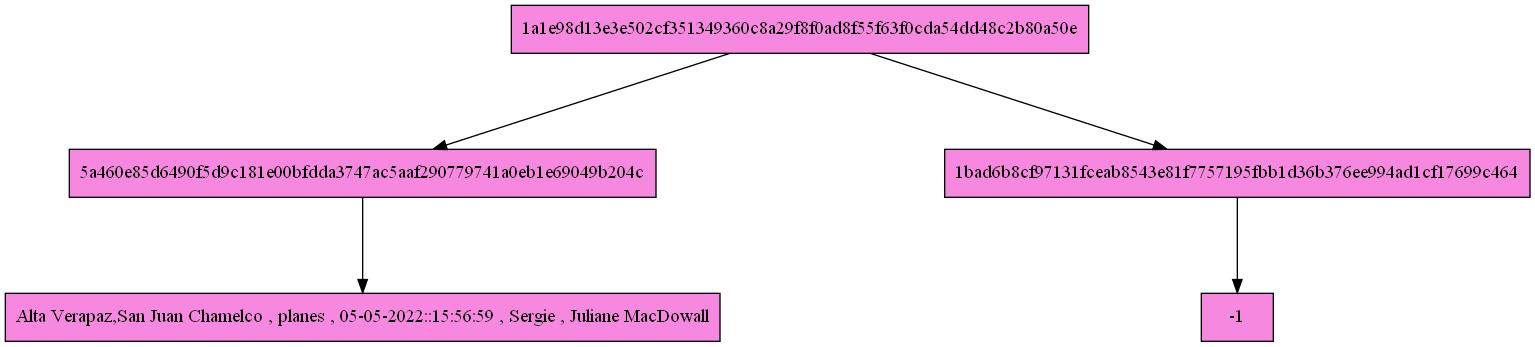
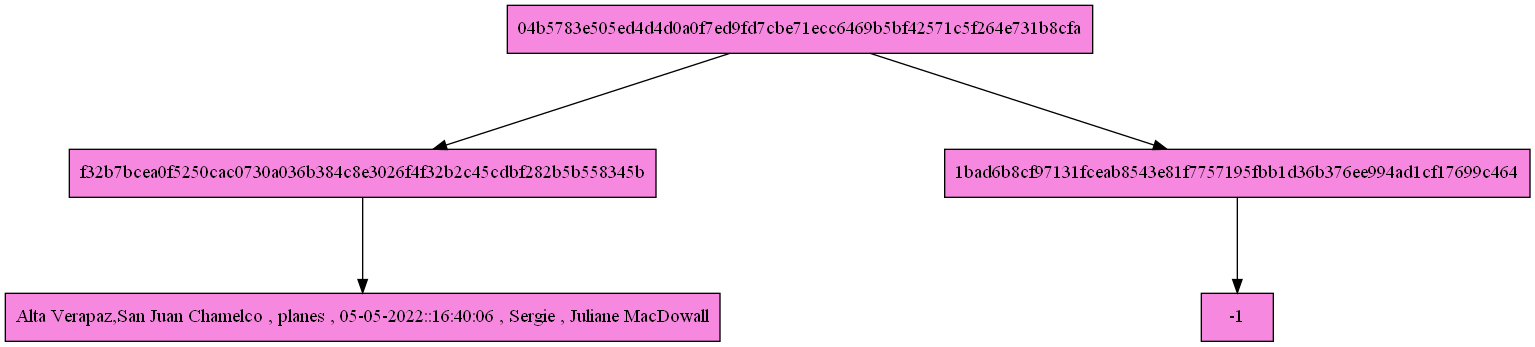
block chan funcionando

Changed region(s): [[0.3062, 0.0288, 0.7349, 0.1441], [0.0306, 0.4611, 0.4287, 0.5187], [0.2756, 0.8934, 0.3368, 0.9222]]

diff --git a/FASE 3/src/windows/Admin_Module.java b/FASE 3/src/windows/Admin_Module.java
@@ -459,11 +459,11 @@ public class Admin_Module extends JFrame {
 		tabbedPane.addTab("Sitema de bloackchain", null, panel_10, null);
 		panel_10.setLayout(null);
 		
-		JLabel lblNewLabel_6 = new JLabel("Modificar tiempo de generacion de bloques color car numero en  milisegundos 1s = 1000ms");
-		lblNewLabel_6.setBounds(21, 11, 448, 14);
+		JLabel lblNewLabel_6 = new JLabel("Modificar tiempo de generacion de bloques color car numero en  segundos");
+		lblNewLabel_6.setBounds(21, 11, 560, 14);
 		panel_10.add(lblNewLabel_6);
 		
-		JLabel lblNewLabel_6_1 = new JLabel("*Por defecto estaa en 3 s");
+		JLabel lblNewLabel_6_1 = new JLabel("*Por defecto estaa en 180 s = 3 min");
 		lblNewLabel_6_1.setBounds(21, 31, 448, 14);
 		panel_10.add(lblNewLabel_6_1);
 		
@@ -499,7 +499,19 @@ public class Admin_Module extends JFrame {
 			
 			btnVerBlockchain.setBounds(1336, 7, 139, 23);
 			panel_10.add(btnVerBlockchain);
+			
+			JButton GenerarBloque = new JButton("Generar Bloque");
+			
+			GenerarBloque.setBounds(1336, 55, 139, 23);
+			panel_10.add(GenerarBloque);
 			///Butons ------------------------------------------------------------------------------------
+			
+			GenerarBloque.addActionListener(new ActionListener() {
+				public void actionPerformed(ActionEvent e) {
+					storage.Generar_Arbol_Merkle();
+				}
+			});
+			
 			btnVerBlockchain.addActionListener(new ActionListener() {
 				public void actionPerformed(ActionEvent e) {
 					storage.blockchain.recorrido_bloques();

diff --git a/FASE 3/src/objects/Bloque.java b/FASE 3/src/objects/Bloque.java
@@ -71,20 +71,31 @@ public class Bloque {
 
 	public void Generar_Hash(Merkle_tree arbole_merkle, int no_ceros) {
 		Nonce = 0;
+	
 		while (true) {
+			Boolean SalirWhile = true;
 			String text = Index + TimesTamp + PreviusHash + RootMerkle + Nonce;
 			String hash = arbole_merkle.GenerarHash(text);
 
 			char[] caracteres = hash.toCharArray();
-			
+
 			for (int i = 0; i < no_ceros; i++) {
-				if(caracteres[i] == '0') {
+				if (caracteres[i] == '0') {
 					continue;
-				}else {
+				} else {
+					SalirWhile = false;
 					Nonce++;
+					break;
 				}
-				
 			}
+			if(caracteres[no_ceros] != '0' && SalirWhile) {
+				Hash = hash;
+				break;
+			}else {
+				Nonce++;
+				continue;
+			}
+
 		}
 	}
 
